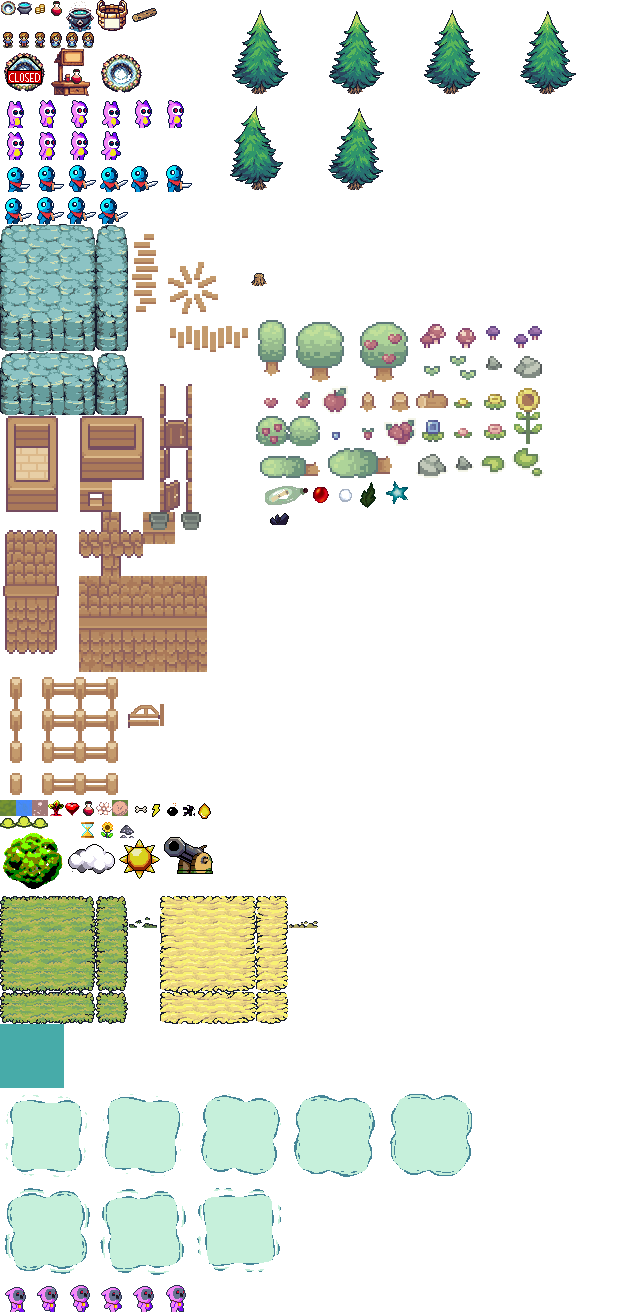
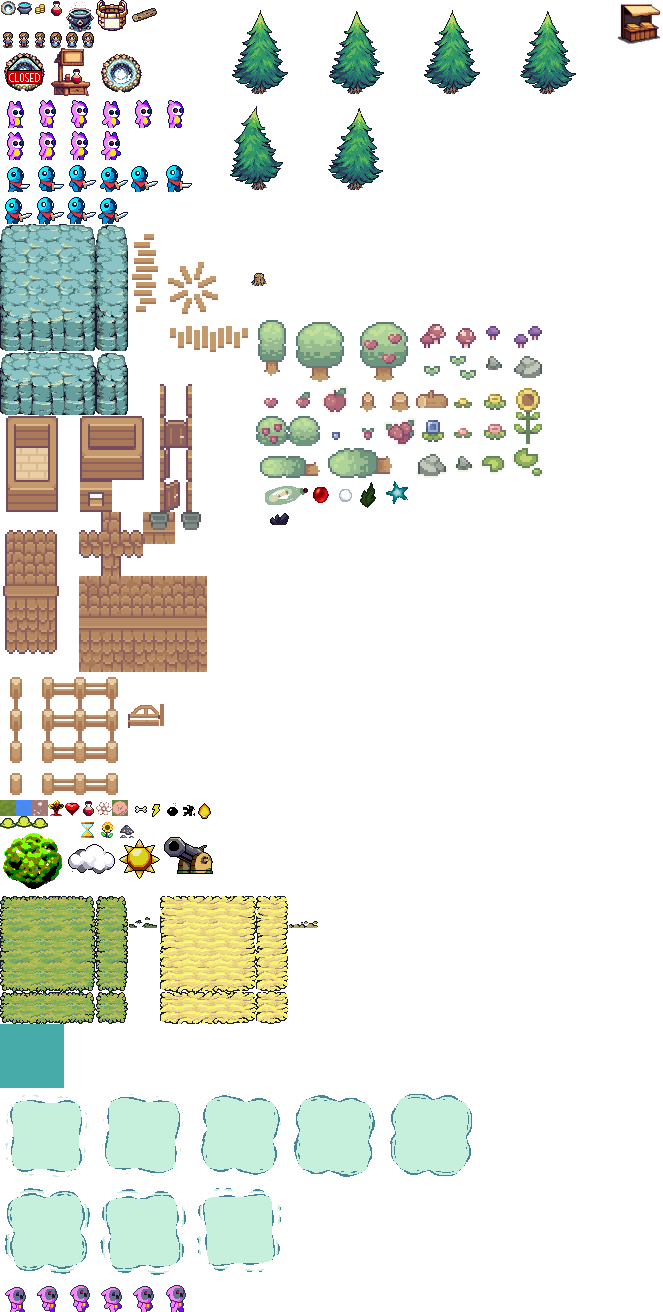
fix: able to add logs to marketstand
Add new art for marketstand too. Add tests. Fixes 762.

diff --git a/packages/server/test/items/marketstand/marketStand.test.ts b/packages/server/test/items/marketstand/marketStand.test.ts
@@ -1,0 +1,245 @@
+import { MarketStand } from '../../../src/items/marketStand';
+import { Item } from '../../../src/items/item';
+import { Mob } from '../../../src/mobs/mob';
+import { itemGenerator } from '../../../src/items/itemGenerator';
+
+jest.mock('../../../src/items/item');
+jest.mock('../../../src/items/itemGenerator', () => ({
+  itemGenerator: {
+    createItem: jest.fn()
+  }
+}));
+
+describe('MarketStand', () => {
+  let mockItem: jest.Mocked<Item>;
+  let mockMob: jest.Mocked<Mob>;
+  let mockCarriedItem: jest.Mocked<Item>;
+  let marketStand: MarketStand | undefined;
+
+  beforeEach(() => {
+    // Reset all mocks
+    jest.clearAllMocks();
+
+    // Setup mock item
+    mockItem = {
+      hasAttribute: jest.fn(),
+      getAttribute: jest.fn(),
+      setAttribute: jest.fn(),
+      changeAttributeBy: jest.fn()
+    } as unknown as jest.Mocked<Item>;
+
+    // Setup mock carried item
+    mockCarriedItem = {
+      type: 'log',
+      destroy: jest.fn()
+    } as unknown as jest.Mocked<Item>;
+
+    // Setup mock mob
+    mockMob = {
+      carrying: mockCarriedItem,
+      gold: 100,
+      changeGold: jest.fn()
+    } as unknown as jest.Mocked<Mob>;
+  });
+
+  describe('fromItem', () => {
+    it('should create a MarketStand instance when item has required attributes', () => {
+      mockItem.hasAttribute.mockImplementation(
+        (attr) => attr === 'inventory' || attr === 'prices'
+      );
+
+      marketStand = MarketStand.fromItem(mockItem);
+      expect(marketStand).toBeDefined();
+    });
+
+    it('should return undefined when item is missing required attributes', () => {
+      mockItem.hasAttribute.mockReturnValue(false);
+
+      marketStand = MarketStand.fromItem(mockItem);
+      expect(marketStand).toBeUndefined();
+    });
+  });
+
+  describe('addItem', () => {
+    beforeEach(() => {
+      mockItem.hasAttribute.mockImplementation(
+        (attr) =>
+          attr === 'inventory' || attr === 'prices' || attr === 'item_type'
+      );
+      marketStand = MarketStand.fromItem(mockItem);
+    });
+
+    it('should successfully add item of same type', () => {
+      mockItem.getAttribute.mockImplementation((attr): string | number => {
+        if (attr === 'inventory') return '{"log": 1}';
+        if (attr === 'prices') return '{"log": 10}';
+        if (attr === 'item_type') return 'log';
+        return '';
+      });
+
+      const result = marketStand!.addItem(mockMob);
+
+      expect(result).toBe(true);
+      expect(mockItem.changeAttributeBy).toHaveBeenCalledWith('items', 1);
+      expect(mockCarriedItem.destroy).toHaveBeenCalled();
+    });
+
+    it('should reject item of different type', () => {
+      mockItem.getAttribute.mockImplementation((attr): string | number => {
+        if (attr === 'item_type') return 'potion';
+        return '';
+      });
+
+      const result = marketStand!.addItem(mockMob);
+
+      expect(result).toBe(false);
+      expect(mockCarriedItem.destroy).not.toHaveBeenCalled();
+    });
+
+    it('should reject when mob is not carrying anything', () => {
+      mockMob.carrying = undefined;
+
+      const result = marketStand!.addItem(mockMob);
+
+      expect(result).toBe(false);
+    });
+  });
+
+  describe('changePrice', () => {
+    beforeEach(() => {
+      mockItem.hasAttribute.mockImplementation(
+        (attr) => attr === 'inventory' || attr === 'prices' || attr === 'price'
+      );
+      marketStand = MarketStand.fromItem(mockItem);
+    });
+
+    it('should increase price within bounds', () => {
+      mockItem.getAttribute.mockReturnValue(10);
+
+      marketStand!.changePrice(1);
+
+      expect(mockItem.setAttribute).toHaveBeenCalledWith('price', 11);
+    });
+
+    it('should decrease price within bounds', () => {
+      mockItem.getAttribute.mockReturnValue(10);
+
+      marketStand!.changePrice(-1);
+
+      expect(mockItem.setAttribute).toHaveBeenCalledWith('price', 9);
+    });
+
+    it('should not increase price above 99', () => {
+      mockItem.getAttribute.mockReturnValue(99);
+
+      marketStand!.changePrice(1);
+
+      expect(mockItem.setAttribute).toHaveBeenCalledWith('price', 99);
+    });
+
+    it('should not decrease price below 1', () => {
+      mockItem.getAttribute.mockReturnValue(1);
+
+      marketStand!.changePrice(-1);
+
+      expect(mockItem.setAttribute).toHaveBeenCalledWith('price', 1);
+    });
+  });
+
+  describe('purchaseItem', () => {
+    beforeEach(() => {
+      mockItem.hasAttribute.mockImplementation(
+        (attr) => attr === 'inventory' || attr === 'prices'
+      );
+      marketStand = MarketStand.fromItem(mockItem);
+    });
+
+    it('should successfully purchase available item', () => {
+      mockItem.getAttribute.mockImplementation((attr): string | number => {
+        if (attr === 'inventory') return '{"log": 1}';
+        if (attr === 'prices') return '{"log": 10}';
+        return 0;
+      });
+
+      const result = marketStand!.purchaseItem(mockMob, 'log');
+
+      expect(result).toBe(true);
+      expect(mockMob.changeGold).toHaveBeenCalledWith(-10);
+      expect(mockItem.changeAttributeBy).toHaveBeenCalledWith('items', -1);
+      expect(mockItem.changeAttributeBy).toHaveBeenCalledWith('gold', 10);
+      expect(itemGenerator.createItem).toHaveBeenCalledWith({
+        type: 'log',
+        carriedBy: mockMob
+      });
+    });
+
+    it('should fail when item is not in inventory', () => {
+      mockItem.getAttribute.mockImplementation((attr): string | number => {
+        if (attr === 'inventory') return '{}';
+        if (attr === 'prices') return '{"log": 10}';
+        return 0;
+      });
+
+      const result = marketStand!.purchaseItem(mockMob, 'log');
+
+      expect(result).toBe(false);
+      expect(mockMob.changeGold).not.toHaveBeenCalled();
+      expect(itemGenerator.createItem).not.toHaveBeenCalled();
+    });
+
+    it('should fail when price is not set', () => {
+      mockItem.getAttribute.mockImplementation((attr): string | number => {
+        if (attr === 'inventory') return '{"log": 1}';
+        if (attr === 'prices') return '{}';
+        return 0;
+      });
+
+      const result = marketStand!.purchaseItem(mockMob, 'log');
+
+      expect(result).toBe(false);
+      expect(mockMob.changeGold).not.toHaveBeenCalled();
+      expect(itemGenerator.createItem).not.toHaveBeenCalled();
+    });
+
+    it('should fail when mob has insufficient gold', () => {
+      mockItem.getAttribute.mockImplementation((attr): string | number => {
+        if (attr === 'inventory') return '{"log": 1}';
+        if (attr === 'prices') return '{"log": 200}';
+        return 0;
+      });
+
+      const result = marketStand!.purchaseItem(mockMob, 'log');
+
+      expect(result).toBe(false);
+      expect(mockMob.changeGold).not.toHaveBeenCalled();
+      expect(itemGenerator.createItem).not.toHaveBeenCalled();
+    });
+  });
+
+  describe('collectGold', () => {
+    beforeEach(() => {
+      mockItem.hasAttribute.mockImplementation(
+        (attr) => attr === 'inventory' || attr === 'prices'
+      );
+      marketStand = MarketStand.fromItem(mockItem);
+    });
+
+    it('should transfer gold from stand to mob', () => {
+      mockItem.getAttribute.mockReturnValue(50);
+
+      marketStand!.collectGold(mockMob);
+
+      expect(mockMob.changeGold).toHaveBeenCalledWith(50);
+      expect(mockItem.setAttribute).toHaveBeenCalledWith('gold', 0);
+    });
+
+    it('should handle zero gold', () => {
+      mockItem.getAttribute.mockReturnValue(0);
+
+      marketStand!.collectGold(mockMob);
+
+      expect(mockMob.changeGold).toHaveBeenCalledWith(0);
+      expect(mockItem.setAttribute).toHaveBeenCalledWith('gold', 0);
+    });
+  });
+});

diff --git a/packages/server/src/items/marketStand.ts b/packages/server/src/items/marketStand.ts
@@ -55,9 +55,16 @@ export class MarketStand {
     // Ensure that only the same item type can be added
     if (this.getItemType() !== carriedItem.type) return false;
 
+    // Update both the items count and inventory
     this.item.changeAttributeBy('items', 1);
-    carriedItem.destroy();
 
+    // Update inventory
+    const inventory = this.getInventory();
+    const itemType = carriedItem.type;
+    inventory[itemType] = (inventory[itemType] || 0) + 1;
+    this.item.setAttribute('inventory', JSON.stringify(inventory));
+
+    carriedItem.destroy();
     return true;
   }
 
@@ -74,8 +81,8 @@ export class MarketStand {
   }
 
   purchaseItem(mob: Mob, itemType: string): boolean {
-    const inventory = this.getInventory(); // Retrieves parsed object
-    const prices = this.getPrices(); // Retrieves parsed object
+    const inventory = this.getInventory();
+    const prices = this.getPrices();
 
     if (!inventory[itemType] || inventory[itemType] <= 0) return false;
     if (!prices[itemType]) return false;
@@ -84,9 +91,13 @@ export class MarketStand {
     // Deduct gold, reduce inventory, and give item
     mob.changeGold(-prices[itemType]);
     inventory[itemType] -= 1;
+    this.item.changeAttributeBy('items', -1);
 
-    // 🔥 Store inventory as a JSON string
+    // Update inventory
     this.item.setAttribute('inventory', JSON.stringify(inventory));
+
+    // Add gold to the stand
+    this.item.changeAttributeBy('gold', prices[itemType]);
 
     itemGenerator.createItem({
       type: itemType,

diff --git a/packages/server/src/items/uses/create.ts b/packages/server/src/items/uses/create.ts
@@ -3,18 +3,25 @@ import { Item } from '../item';
 import { itemGenerator } from '../itemGenerator';
 import { Community } from '../../community/community';
 
+type ItemAttributes = Record<string, string | number>;
+
 export class Create {
   static createItemFrom(createItem: Item, creator: Mob, type: string): boolean {
     const creatorCommunity = Community.getVillage(creator.community_id);
-    let typeAttribute = {
+    let typeAttribute: ItemAttributes = {
       templateType: createItem.type,
       items: 1,
       capacity: 20
     };
 
-    // There should be no potion count for no potions
-    if (createItem.type === 'log') {
-      typeAttribute.items = 0;
+    // Initialize market stand specific attributes
+    // Markets start with 0 items while potions start with 1
+    if (type === 'market-stand') {
+      typeAttribute = {
+        ...typeAttribute,
+        items: 0,
+        inventory: JSON.stringify({})
+      };
     }
 
     itemGenerator.createItem({
